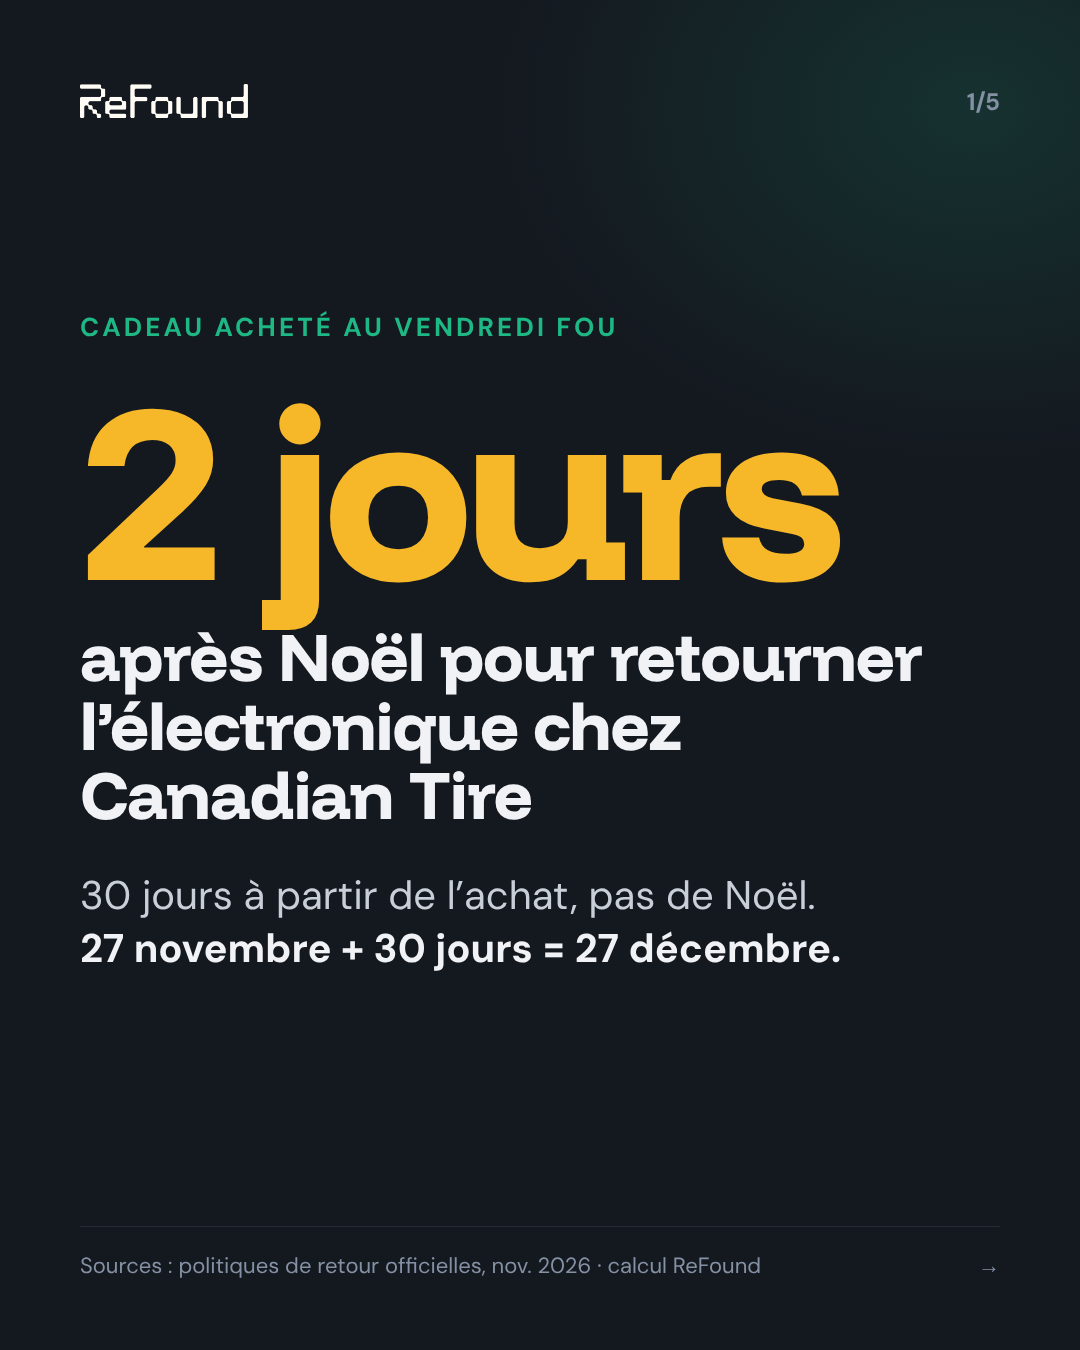
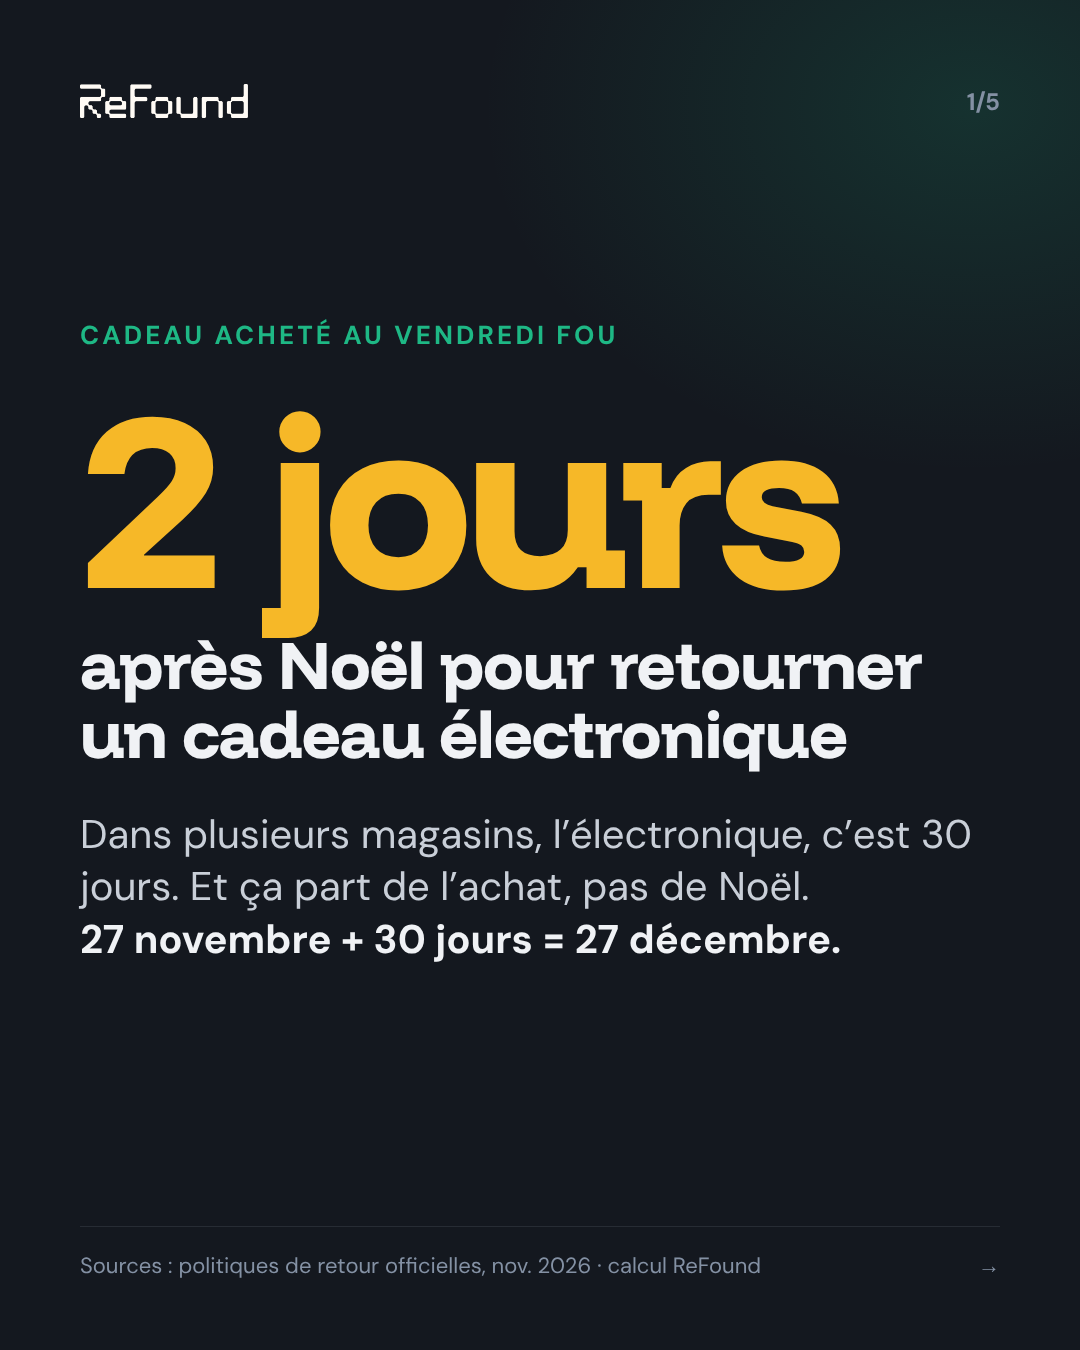
retourner-cadeau-noel: one topic, generic titles (no store in slide 1 and 4 titles)
Claude-Session: https://claude.ai/code/session_01RobFqgR2K4ctFiasTkgThL

diff --git a/social/retourner-cadeau-noel/slides.js b/social/retourner-cadeau-noel/slides.js
@@ -9,10 +9,11 @@
 // v4 (demande de David) : l'app seulement à la dernière diapo, nommée « l'app » ; diapo 4 = ce que les magasins demandent sans reçu (article, 12 nov. 2026).
 // Ronde 4 : 7,5 / 7,5 / 8,5 ; dernière diapo reliée au problème (partage du reçu).
 // v5 : diapo 4 simplifiée (David ne la comprenait pas) : une seule règle, IKEA sans reçu, 4 éléments.
+// v6 (David) : rester sur un sujet, titres génériques (plus de Canadian Tire à la diapo 1 ni d'IKEA en titre).
 // Finale ronde 3 : Julie 8, Samuel 7,5, Gilles 9. Reste : aucune capture d'écran de l'app (demander à David une vraie capture du mode retour).
 module.exports = {
   fr: { src: 'Sources : politiques de retour officielles, nov. 2026 · calcul ReFound', slides: [
-    { type: 'stat', eyebrow: 'Cadeau acheté au Vendredi fou', stat: '2 jours', title: 'après Noël pour retourner l’électronique chez Canadian Tire', text: '30 jours à partir de l’achat, pas de Noël.<br><b>27 novembre + 30 jours = 27 décembre.</b>' },
+    { type: 'stat', eyebrow: 'Cadeau acheté au Vendredi fou', stat: '2 jours', title: 'après Noël pour retourner un cadeau électronique', text: 'Dans plusieurs magasins, l’électronique, c’est 30 jours. Et ça part de l’achat, pas de Noël.<br><b>27 novembre + 30 jours = 27 décembre.</b>' },
     { type: 'list', plain: true, eyebrow: 'Acheté le 27 novembre', title: 'Rapportez-le avant le…', items: [
       ['Canadian Tire · Home Depot', 'Télé et électronique : 27 déc. · Le reste : 25 févr.'],
       ['Walmart', 'Électronique : 27 déc. · Le reste : 25 févr.'],
@@ -21,12 +22,12 @@ module.exports = {
       ['Best Buy', '10 janv. · Mais aucun retour en magasin le 26 déc.']],
       text: 'Électronique : télé, son, photo, téléphones. Walmart n’a pas annoncé de prolongation des Fêtes.' },
     { type: 'text', eyebrow: 'Le vrai problème', title: 'Le cadeau est chez eux. Le reçu est chez vous.', text: 'Pour un retour, le magasin demande une preuve d’achat. C’est la personne qui a payé qui l’a.' },
-    { type: 'list', eyebrow: 'Pas de reçu chez IKEA?', title: 'Pour retrouver l’achat, il faut 4&nbsp;choses', items: [
+    { type: 'list', eyebrow: 'Pas de reçu?', title: 'Pour retrouver l’achat, il faut 4&nbsp;choses', items: [
       ['La date d’achat', ''], ['Le magasin', ''], ['Le montant exact', ''], ['Les 4 derniers chiffres de la carte', '']],
-      text: '<b>La personne qui a reçu le cadeau n’en a aucune.</b>' },
+      text: '<b>La personne qui a reçu le cadeau n’en a aucune.</b><br><span style="font-size:24px;color:#8491A4">Exemple : la politique d’IKEA.</span>' },
     { type: 'cta', eyebrow: 'Gratuit · iPhone et Android', title: 'L’app ReFound garde le reçu de chaque cadeau', img: 'assets/app-partage-recu.png', text: 'Prenez-le en photo en emballant le cadeau, et envoyez-le à la personne qui fera l’échange.' }] },
   en: { src: 'Sources: official return policies, Nov. 2026 · ReFound calculation', slides: [
-    { type: 'stat', eyebrow: 'Gift bought on Black Friday', stat: '2 days', title: 'after Christmas to return electronics at Canadian Tire', text: '30 days from the purchase, not from Christmas.<br><b>November 27 + 30 days = December 27.</b>' },
+    { type: 'stat', eyebrow: 'Gift bought on Black Friday', stat: '2 days', title: 'after Christmas to return an electronics gift', text: 'At several stores, electronics get 30 days. And the clock starts at purchase, not on Christmas.<br><b>November 27 + 30 days = December 27.</b>' },
     { type: 'list', plain: true, eyebrow: 'Bought November 27', title: 'Bring it back by…', items: [
       ['Canadian Tire · Home Depot', 'TVs and electronics: Dec. 27 · Everything else: Feb. 25'],
       ['Walmart', 'Electronics: Dec. 27 · Everything else: Feb. 25'],
@@ -35,8 +36,8 @@ module.exports = {
       ['Best Buy', 'Jan. 10 · But no in-store returns on Dec. 26']],
       text: 'Electronics: TVs, audio, cameras, phones. Walmart hasn’t announced a holiday extension.' },
     { type: 'text', eyebrow: 'The real problem', title: 'The gift is at their place. The receipt is at yours.', text: 'Stores ask for proof of purchase. The person who paid has it.' },
-    { type: 'list', eyebrow: 'No receipt at IKEA?', title: 'To find the purchase, they need 4&nbsp;things', items: [
+    { type: 'list', eyebrow: 'No receipt?', title: 'To find the purchase, they need 4&nbsp;things', items: [
       ['The purchase date', ''], ['The store', ''], ['The exact amount', ''], ['The card’s last 4 digits', '']],
-      text: '<b>The person who got the gift has none of them.</b>' },
+      text: '<b>The person who got the gift has none of them.</b><br><span style="font-size:24px;color:#8491A4">Example: IKEA’s policy.</span>' },
     { type: 'cta', eyebrow: 'Free · iPhone and Android', title: 'The ReFound app keeps every gift receipt', text: 'Snap it while you wrap the gift, then send it to whoever makes the exchange.' }] }
 };

diff --git a/social/retourner-cadeau-noel/caption.md b/social/retourner-cadeau-noel/caption.md
@@ -3,7 +3,7 @@
 ## FR
 Retourner un cadeau de Noël : le délai part de l'achat, pas du 25 décembre
 
-Un cadeau électronique acheté le 27 novembre chez Canadian Tire doit revenir vers le 27 décembre : le délai de 30 jours part de l'achat, pas de Noël. Les dates pour Canadian Tire, Home Depot, Walmart, RONA, Costco et Best Buy sont dans le carrousel, calculées d'après leurs politiques officielles ; le magasin a le dernier mot.
+Dans plusieurs magasins, un cadeau électronique acheté le 27 novembre doit revenir vers le 27 décembre : le délai de 30 jours part de l'achat, pas de Noël. Les dates pour Canadian Tire, Home Depot, Walmart, RONA, Costco et Best Buy sont dans le carrousel, calculées d'après leurs politiques officielles ; le magasin a le dernier mot.
 
 Enregistrez-le pour le Vendredi fou, et envoyez-le à la personne qui achète les cadeaux chez vous.
 
@@ -14,16 +14,16 @@ Enregistrez-le pour le Vendredi fou, et envoyez-le à la personne qui achète le
 #retourcadeau #Noël #VendrediFou #Québec #ReFound
 
 ### Textes alternatifs (FR)
-1. Cadeau électronique acheté au Vendredi fou : 2 jours après Noël pour le retourner chez Canadian Tire. 27 novembre + 30 jours = 27 décembre.
+1. Cadeau électronique acheté au Vendredi fou : 2 jours après Noël pour le retourner, dans plusieurs magasins. 27 novembre + 30 jours = 27 décembre.
 2. Acheté le 27 novembre, à rapporter avant : Canadian Tire et Home Depot, télé et électronique le 27 décembre, le reste le 25 février ; Walmart, électronique le 27 décembre ; RONA, électroménagers le 27 décembre ; Costco, télé et électronique le 25 février ; Best Buy, le 10 janvier, sans retour en magasin le 26 décembre.
 3. Le cadeau est chez eux, le reçu est chez vous : la preuve d'achat appartient à la personne qui a payé.
-4. Pas de reçu chez IKEA? Pour retrouver l'achat, il faut 4 choses : la date d'achat, le magasin, le montant exact et les 4 derniers chiffres de la carte. La personne qui a reçu le cadeau n'en a aucune.
+4. Pas de reçu? Pour retrouver l'achat, il faut 4 choses (exemple : la politique d'IKEA) : la date d'achat, le magasin, le montant exact et les 4 derniers chiffres de la carte. La personne qui a reçu le cadeau n'en a aucune.
 5. L'app ReFound, gratuite sur iPhone et Android, garde le reçu de chaque cadeau : prenez-le en photo en emballant le cadeau, et envoyez-le à la personne qui fera l'échange.
 
 ## EN
 Returning a Christmas gift: the clock starts at purchase, not on December 25
 
-An electronics gift bought on November 27 at Canadian Tire must go back around December 27: the 30-day clock starts at purchase, not on Christmas. Deadlines for Canadian Tire, Home Depot, Walmart, RONA, Costco and Best Buy are in the carousel, calculated from their official policies; the store has the final say.
+At several stores, an electronics gift bought on November 27 must go back around December 27: the 30-day clock starts at purchase, not on Christmas. Deadlines for Canadian Tire, Home Depot, Walmart, RONA, Costco and Best Buy are in the carousel, calculated from their official policies; the store has the final say.
 
 Save it for Black Friday, and send it to whoever buys the gifts at your place.
 
@@ -34,8 +34,8 @@ Save it for Black Friday, and send it to whoever buys the gifts at your place.
 #giftreturns #Christmas #BlackFriday #Canada #ReFound
 
 ### Alt text (EN)
-1. Electronics gift bought on Black Friday: 2 days after Christmas to return it at Canadian Tire. November 27 + 30 days = December 27.
+1. Electronics gift bought on Black Friday: 2 days after Christmas to return it, at several stores. November 27 + 30 days = December 27.
 2. Bought November 27, bring it back by: Canadian Tire and Home Depot, TVs and electronics Dec. 27, everything else Feb. 25; Walmart, electronics Dec. 27; RONA, appliances Dec. 27; Costco, TVs and electronics Feb. 25; Best Buy, Jan. 10, no in-store returns Dec. 26.
 3. The gift is at their place, the receipt is at yours: proof of purchase belongs to the person who paid.
-4. No receipt at IKEA? To find the purchase, they need 4 things: the purchase date, the store, the exact amount and the card's last 4 digits. The person who got the gift has none of them.
+4. No receipt? To find the purchase, they need 4 things (example: IKEA's policy): the purchase date, the store, the exact amount and the card's last 4 digits. The person who got the gift has none of them.
 5. The ReFound app, free on iPhone and Android, keeps every gift receipt: snap it while you wrap the gift, then send it to whoever makes the exchange.

diff --git a/social/VALIDATION.md b/social/VALIDATION.md
@@ -58,6 +58,7 @@ puis 8, 7,5 et 8,5/10 après trois rondes. David a ensuite jugé le sujet trop p
 - **Un exemple de reçu hors sujet (bâton de hockey dans un carrousel sur l'électronique) et un code de caisse brut perdent les gens.** Mieux vaut aucun exemple.
 - **Dernière diapo : une action précise** (« Téléchargez ReFound avant le Vendredi fou »), pas seulement une adresse web.
 - **L'app seulement à la dernière diapo** (demande de David), nommée « l'app ReFound », et reliée au problème posé juste avant (ici : envoyer le reçu à la personne qui fait l'échange). Avant, une diapo « ce que fait l'app » au milieu n'était pas comprise comme parlant d'une app.
+- **Un seul sujet, des titres génériques** (remarque de David) : ne pas commencer par un magasin et finir par un autre. Les titres parlent à tout le monde (« un cadeau électronique », « pas de reçu? ») ; les magasins précis vont dans le contenu (liste de dates) ou en petit (« Exemple : la politique d'IKEA »).
 - **Un geste réaliste** : personne ne prend son reçu en photo à la caisse (remarque de David). Proposer un moment naturel : en rentrant, en déballant les achats, en emballant le cadeau.
 - **Pas de paragraphe de conseils à la dernière diapo** : une phrase, une action.
 - Pour ce carrousel seulement, les personas voulaient voir l'app : on a ajouté une capture du partage d'un reçu, parce que la fin parlait justement d'envoyer le reçu. Ce n'est pas une règle : une capture de l'app ne s'ajoute que si la diapo parle de cette fonction et qu'une capture adaptée existe. Toute capture doit être nettoyée (aucun nom, numéro de carte, code-barres, adresse ni numéro de transaction lisibles) et ne jamais présenter une fonction Pro comme gratuite. Capture disponible : `tools/assets/app-partage-recu.png` (partage d'un reçu).
